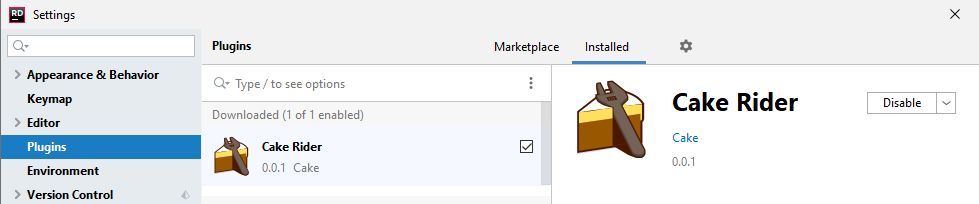
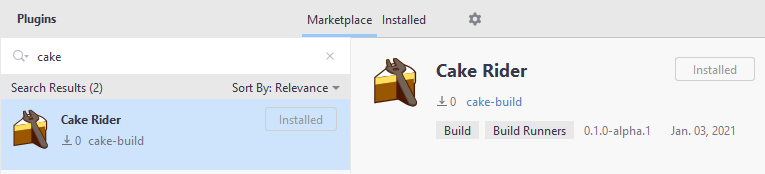
(GH-33) Updated the screenshot from marketplace
and described the alpha and beta channels

diff --git a/README.md b/README.md
@@ -18,9 +18,16 @@ Go to File -> Settings -> Plugins -> Marketplace and search for *Cake Rider*
 
 ![Cake Rider Plugin](./images/riderPlugin.png)
 
-<!--
-WARNING: THIS WILL ONLY WORK, WHEN THE PLUGIN WAS PUBLISHED!
--->
+### Release channels
+
+JetBrains Marketplace has multiple channels for each plugin. Default is always the `Stable` channel,
+however, Cake for Rider might make use of two other channels:
+
+- **Beta**: The `beta` channel contains pre-releases.
+- **Alpha**: The `alpha` channel contains unstable releases. Here be dragons!
+
+To use one of the channels open the [plugin page in the JetBrains Marketplace](https://plugins.jetbrains.com/plugin/15729-cake-rider/)
+select *Versions* and switch the channel on the left side of the page. Download the desired version and install it manually.
 
 ## Build scripts tool window
 
